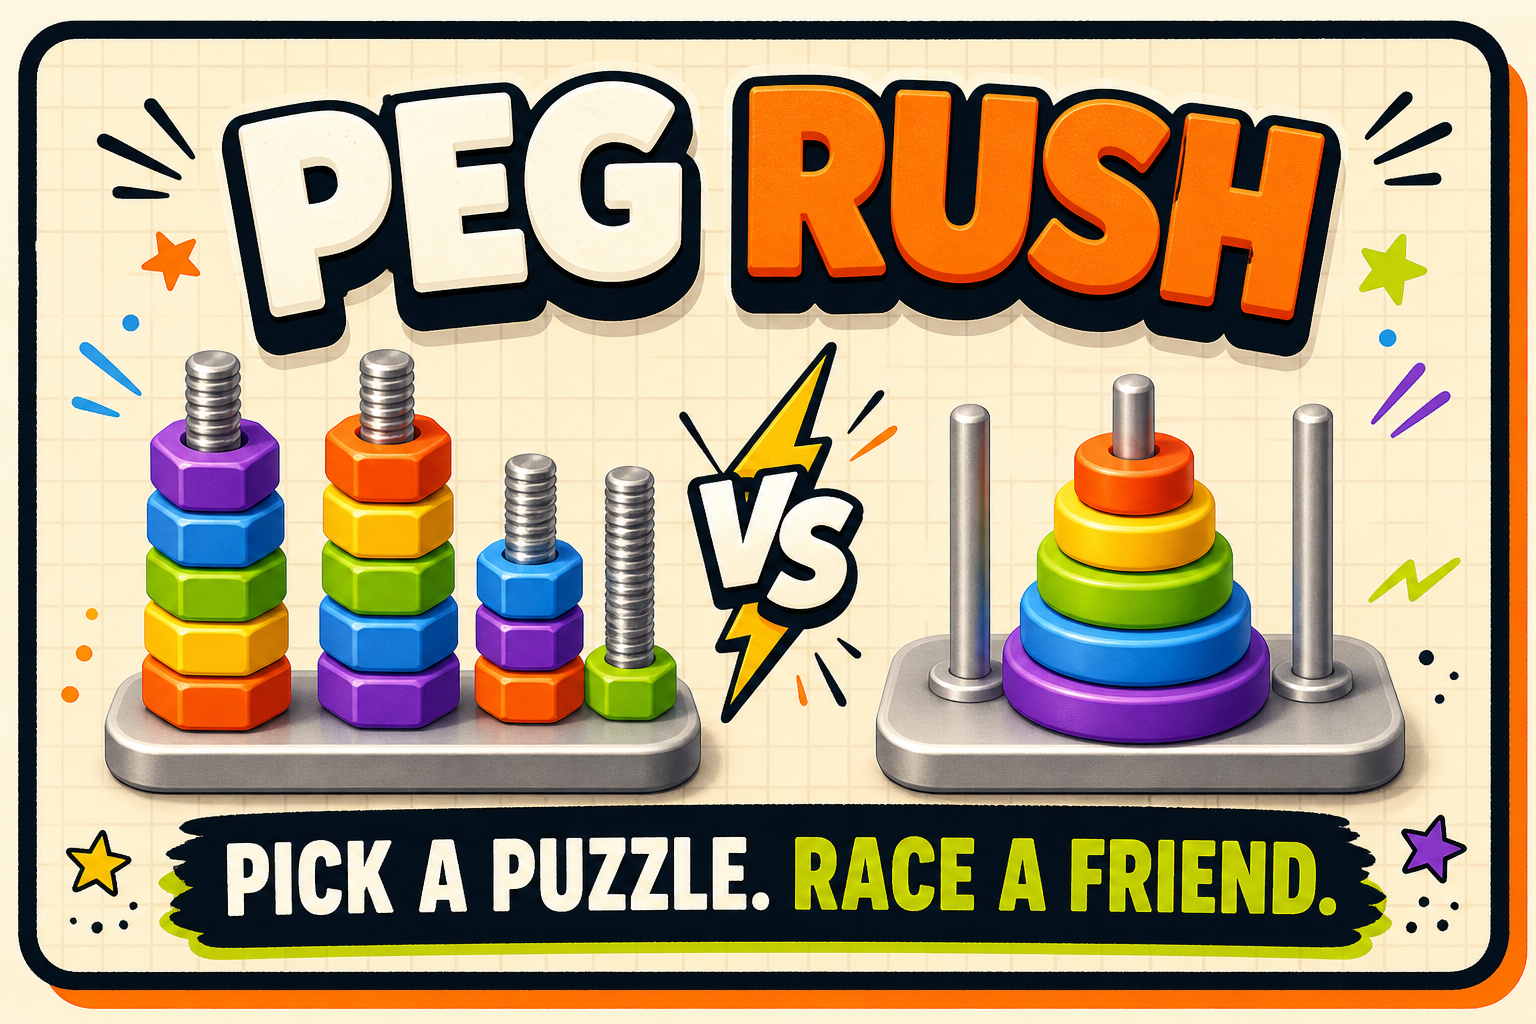
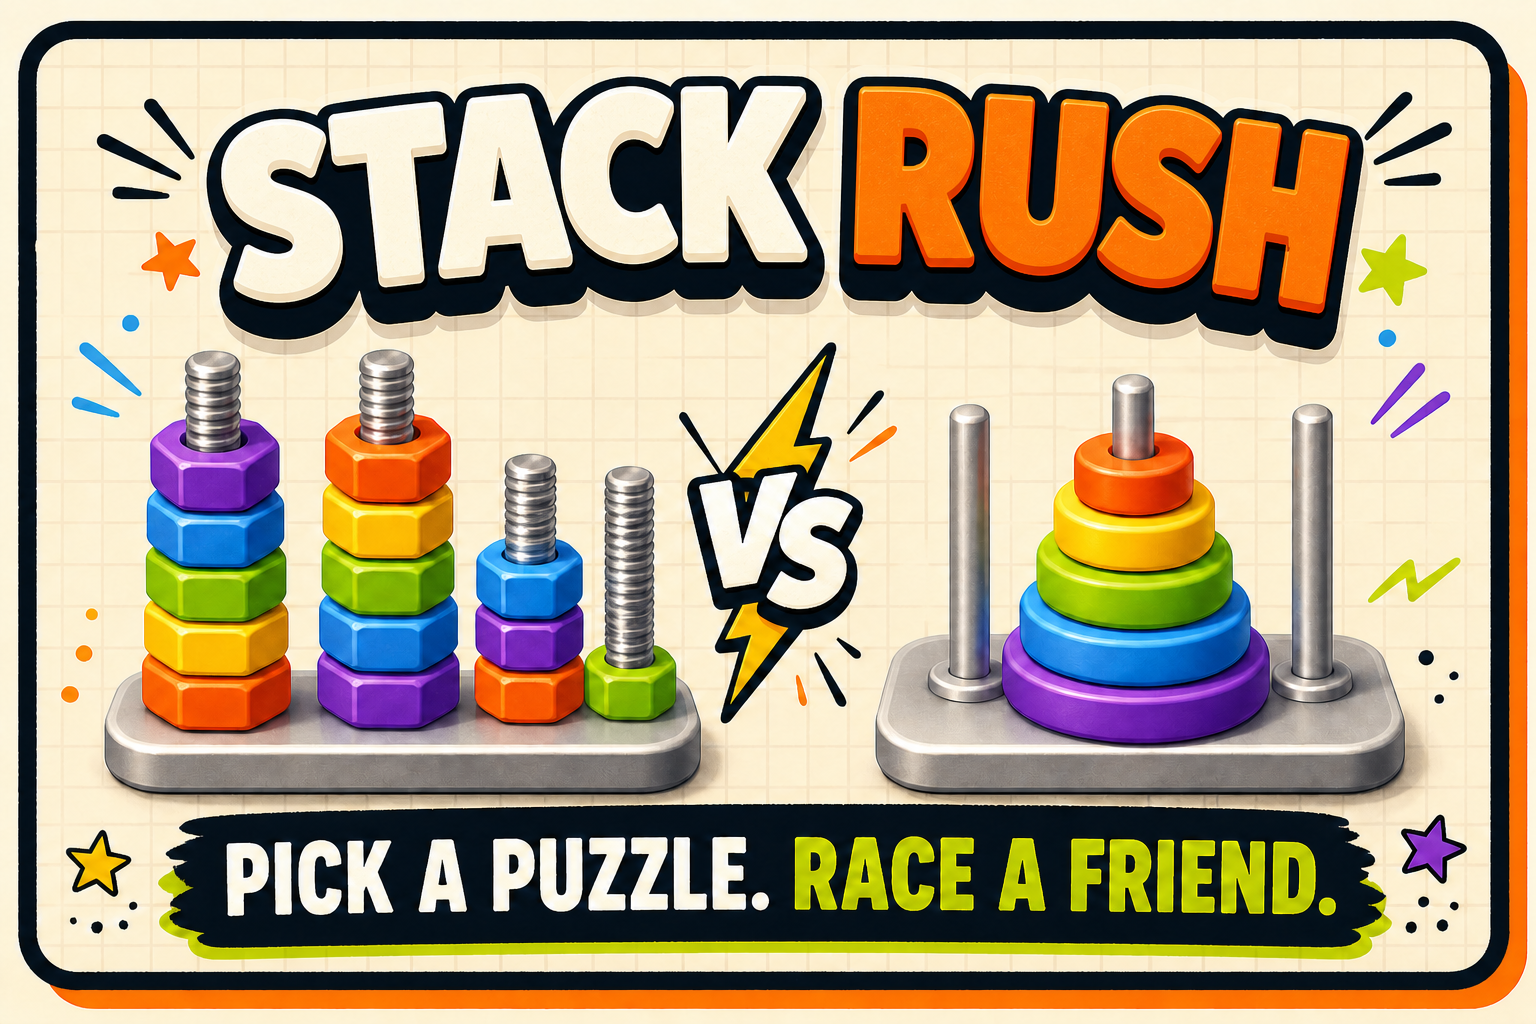
Rename Peg Rush to Stack Rush

diff --git a/app/GameApp.tsx b/app/GameApp.tsx
@@ -247,13 +247,13 @@ function Avatar({ player, small = false }: { player: Player; small?: boolean }) 
 
 function Brand() {
   return (
-    <div className="brand" aria-label="Peg Rush">
+    <div className="brand" aria-label="Stack Rush">
       <span className="brand-mark" aria-hidden="true">
         <i />
         <i />
         <i />
       </span>
-      <span>PEG RUSH</span>
+      <span>STACK RUSH</span>
     </div>
   );
 }
@@ -274,10 +274,10 @@ function ModePicker({ value, onChange }: { value: GameMode; onChange: (value: Ga
   return (
     <div className="mode-picker" role="radiogroup" aria-label="Puzzle mode">
       <button type="button" role="radio" aria-checked={value === "sort"} className={value === "sort" ? "active" : ""} onClick={() => onChange("sort")}>
-        <span aria-hidden="true">⬢</span><b>NUT SORT</b><small>COLOR STACKS</small>
+        <span aria-hidden="true">⬢</span><b>NUTS &amp; BOLTS</b><small>COLOR STACKS</small>
       </button>
       <button type="button" role="radio" aria-checked={value === "hanoi"} className={value === "hanoi" ? "active" : ""} onClick={() => onChange("hanoi")}>
-        <span aria-hidden="true">≋</span><b>TOWER RACE</b><small>HANOI RINGS</small>
+        <span aria-hidden="true">≋</span><b>TOWER RACE</b><small>TOWER OF HANOI</small>
       </button>
     </div>
   );
@@ -383,7 +383,7 @@ function Lobby({
 
   const shareLounge = async () => {
     const shareData = {
-      title: "Peg Rush",
+      title: "Stack Rush",
       text: "Race me in a live puzzle sprint—no account needed.",
       url: window.location.href,
     };

diff --git a/app/layout.tsx b/app/layout.tsx
@@ -23,19 +23,19 @@ export async function generateMetadata(): Promise<Metadata> {
 
   return {
     metadataBase: new URL(origin),
-    title: "Peg Rush — Live Multiplayer Puzzle Races",
+    title: "Stack Rush — Live Multiplayer Puzzle Races",
     description:
-      "Challenge someone online to a live nut-sort or Tower of Hanoi race. No account needed.",
-    applicationName: "Peg Rush",
+      "Challenge someone online to a live Nuts & Bolts or Tower of Hanoi race. No account needed.",
+    applicationName: "Stack Rush",
     openGraph: {
-      title: "Peg Rush — Race the Puzzle",
+      title: "Stack Rush — Race the Puzzle",
       description: "Pick a rival. Choose a puzzle. No account needed.",
       type: "website",
-      images: [{ url: socialImage, width: 1536, height: 1024, alt: "Peg Rush Nut Sort versus Tower Race" }],
+      images: [{ url: socialImage, width: 1536, height: 1024, alt: "Stack Rush Nuts & Bolts versus Tower of Hanoi" }],
     },
     twitter: {
       card: "summary_large_image",
-      title: "Peg Rush — Race the Puzzle",
+      title: "Stack Rush — Race the Puzzle",
       description: "Pick a rival. Choose a puzzle. No account needed.",
       images: [socialImage],
     },

diff --git a/scripts/extract_reference_frames.swift b/scripts/extract_reference_frames.swift
@@ -28,7 +28,7 @@ Task {
     let durationSeconds = CMTimeGetSeconds(duration)
     let tracks = try await asset.loadTracks(withMediaType: .video)
     guard let track = tracks.first else {
-      throw NSError(domain: "PegRushReference", code: 1, userInfo: [
+      throw NSError(domain: "StackRushReference", code: 1, userInfo: [
         NSLocalizedDescriptionKey: "The recording has no video track."
       ])
     }
@@ -62,7 +62,7 @@ Task {
       let image = try await generator.image(at: requested).image
       let bitmap = NSBitmapImageRep(cgImage: image)
       guard let data = bitmap.representation(using: .png, properties: [:]) else {
-        throw NSError(domain: "PegRushReference", code: 2, userInfo: [
+        throw NSError(domain: "StackRushReference", code: 2, userInfo: [
           NSLocalizedDescriptionKey: "Could not encode frame \(index)."
         ])
       }

diff --git a/scripts/build_design_comparison.py b/scripts/build_design_comparison.py
@@ -8,7 +8,7 @@ source_path = Path(sys.argv[1])
 implementation_path = Path(sys.argv[2])
 output_path = Path(sys.argv[3])
 source_label = sys.argv[4] if len(sys.argv) > 4 else "REFERENCE MECHANIC"
-implementation_label = sys.argv[5] if len(sys.argv) > 5 else "PEG RUSH IMPLEMENTATION"
+implementation_label = sys.argv[5] if len(sys.argv) > 5 else "STACK RUSH IMPLEMENTATION"
 
 source = Image.open(source_path).convert("RGB")
 implementation = Image.open(implementation_path).convert("RGB")

diff --git a/design-qa.md b/design-qa.md
@@ -1,4 +1,4 @@
-# Peg Rush design QA
+# Stack Rush design QA
 
 ## Visual truth and evidence
 
@@ -15,11 +15,11 @@
 | --- | --- |
 | Mechanic | Passed. Both views use 17 bolts in a 6 / 6 / 5 arrangement, capacity four, two empty spare bolts, one top-nut move at a time, and same-color destination matching. |
 | Difficulty and density | Passed. The implementation uses all 15 colors. Every starting stack contains four alternating color segments across three colors, and the generated Endurance solution is 60 legal moves. |
-| Typography | Passed. The existing Peg Rush compact uppercase labels, heavy score numerals, and legible instructional copy remain consistent across the multiplayer shell and board. |
+| Typography | Passed. The existing Stack Rush compact uppercase labels, heavy score numerals, and legible instructional copy remain consistent across the multiplayer shell and board. |
 | Spacing and sizing | Passed. At 320 × 568 the page has no vertical overflow; the board ends at 466 px and the move prompt ends at 516.5 px. All 17 bolt controls fit above the fold and the minimum control width is 44.328 px. At 390 × 844 the board ends at 684.875 px and the prompt ends at 739.375 px. |
-| Colors and tokens | Passed. The requested Peg Rush cream-paper, ink-outline, orange/lime, and hard-shadow system is unchanged. Fifteen logical colors render as fifteen distinct nut styles. The reference's purple theme was intentionally not copied because the user asked to preserve the existing frontend design. |
+| Colors and tokens | Passed. The requested Stack Rush cream-paper, ink-outline, orange/lime, and hard-shadow system is unchanged. Fifteen logical colors render as fifteen distinct nut styles. The reference's purple theme was intentionally not copied because the user asked to preserve the existing frontend design. |
 | Assets and imagery | Passed. The board, loading art, waiting art, brand mark, and opponent preview all use the same nut-and-bolt vocabulary. No retired ring/tower imagery remains in the visible product. |
-| Copy | Passed. Product text says “color-sort” and never presents Peg Rush as affiliated with the reference game. Invitations explicitly say no account is required. |
+| Copy | Passed. Product text says “color-sort” and never presents Stack Rush as affiliated with the reference game. Invitations explicitly say no account is required. |
 | Multiplayer additions | Passed. Opponent identity, opponent board, progress, timer, and moves fit around the reference-density board without changing the core interaction. |
 
 ## Interaction and accessibility QA
@@ -47,7 +47,7 @@
 
 ### Evidence and states
 
-- Visual source: the already-approved Peg Rush implementation before this pass. The style, composition, typography, colors, borders, radii, and game density were held constant.
+- Visual source: the already-approved Stack Rush implementation before this pass. The style, composition, typography, colors, borders, radii, and game density were held constant.
 - Lounge before / after at 390 × 844 CSS px: `.qa/spacing/lounge-before-390x844.png`, `.qa/spacing/lounge-after-390x844.png`, and combined comparison `.qa/spacing/lounge-before-after-390x844.png`.
 - Name editor before / after at 390 × 844 CSS px: `.qa/spacing/name-dialog-before-390x844.png`, `.qa/spacing/name-dialog-after-390x844.png`, and combined comparison `.qa/spacing/name-dialog-before-after-390x844.png`.
 - Active Endurance race after polish at 390 × 844 and 320 × 568 CSS px: `.qa/spacing/race-after-390x844.png` and `.qa/spacing/race-after-320x568.png`.

diff --git a/README.md b/README.md
@@ -1,8 +1,9 @@
-# Peg Rush
+# Stack Rush
 
-Peg Rush is a no-login, mobile-first multiplayer color-sort race. Guests enter a
-live lounge, challenge another online player, and sort identical bolt boards
-against a shared countdown. The first server-validated solution wins.
+Stack Rush is a no-login, mobile-first multiplayer puzzle race. Guests enter a
+live lounge, challenge another online player, and compete in Nuts & Bolts or
+Tower of Hanoi against a shared countdown. The first server-validated solution
+wins.
 
 ## Highlights
 
